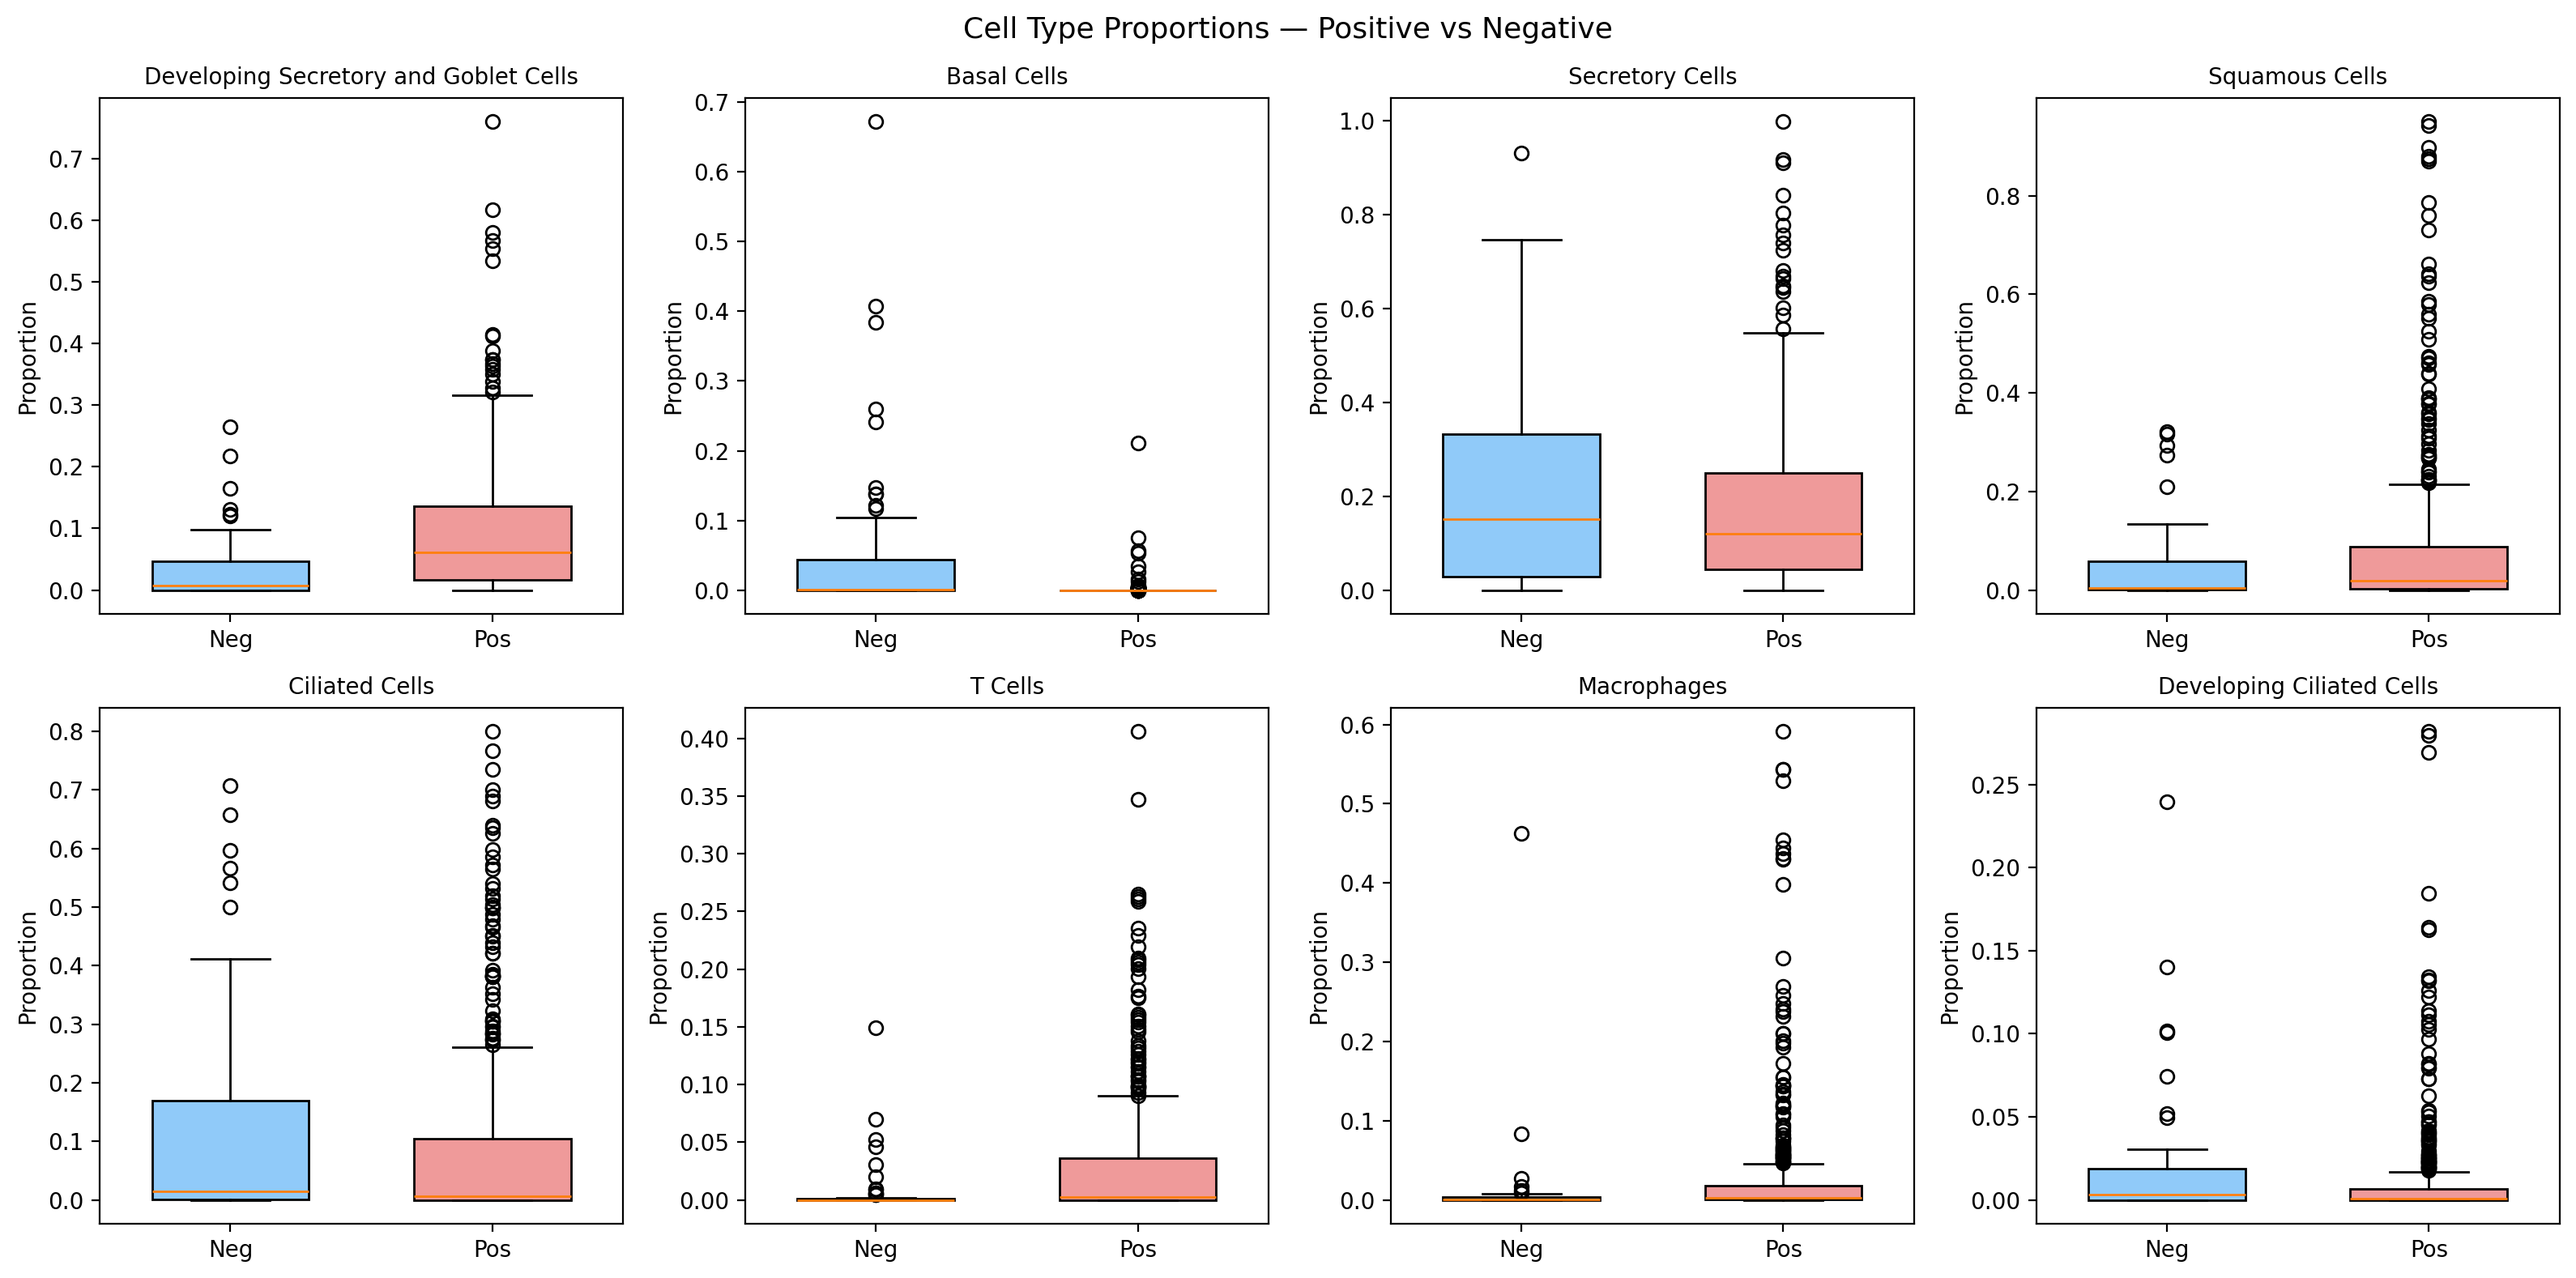
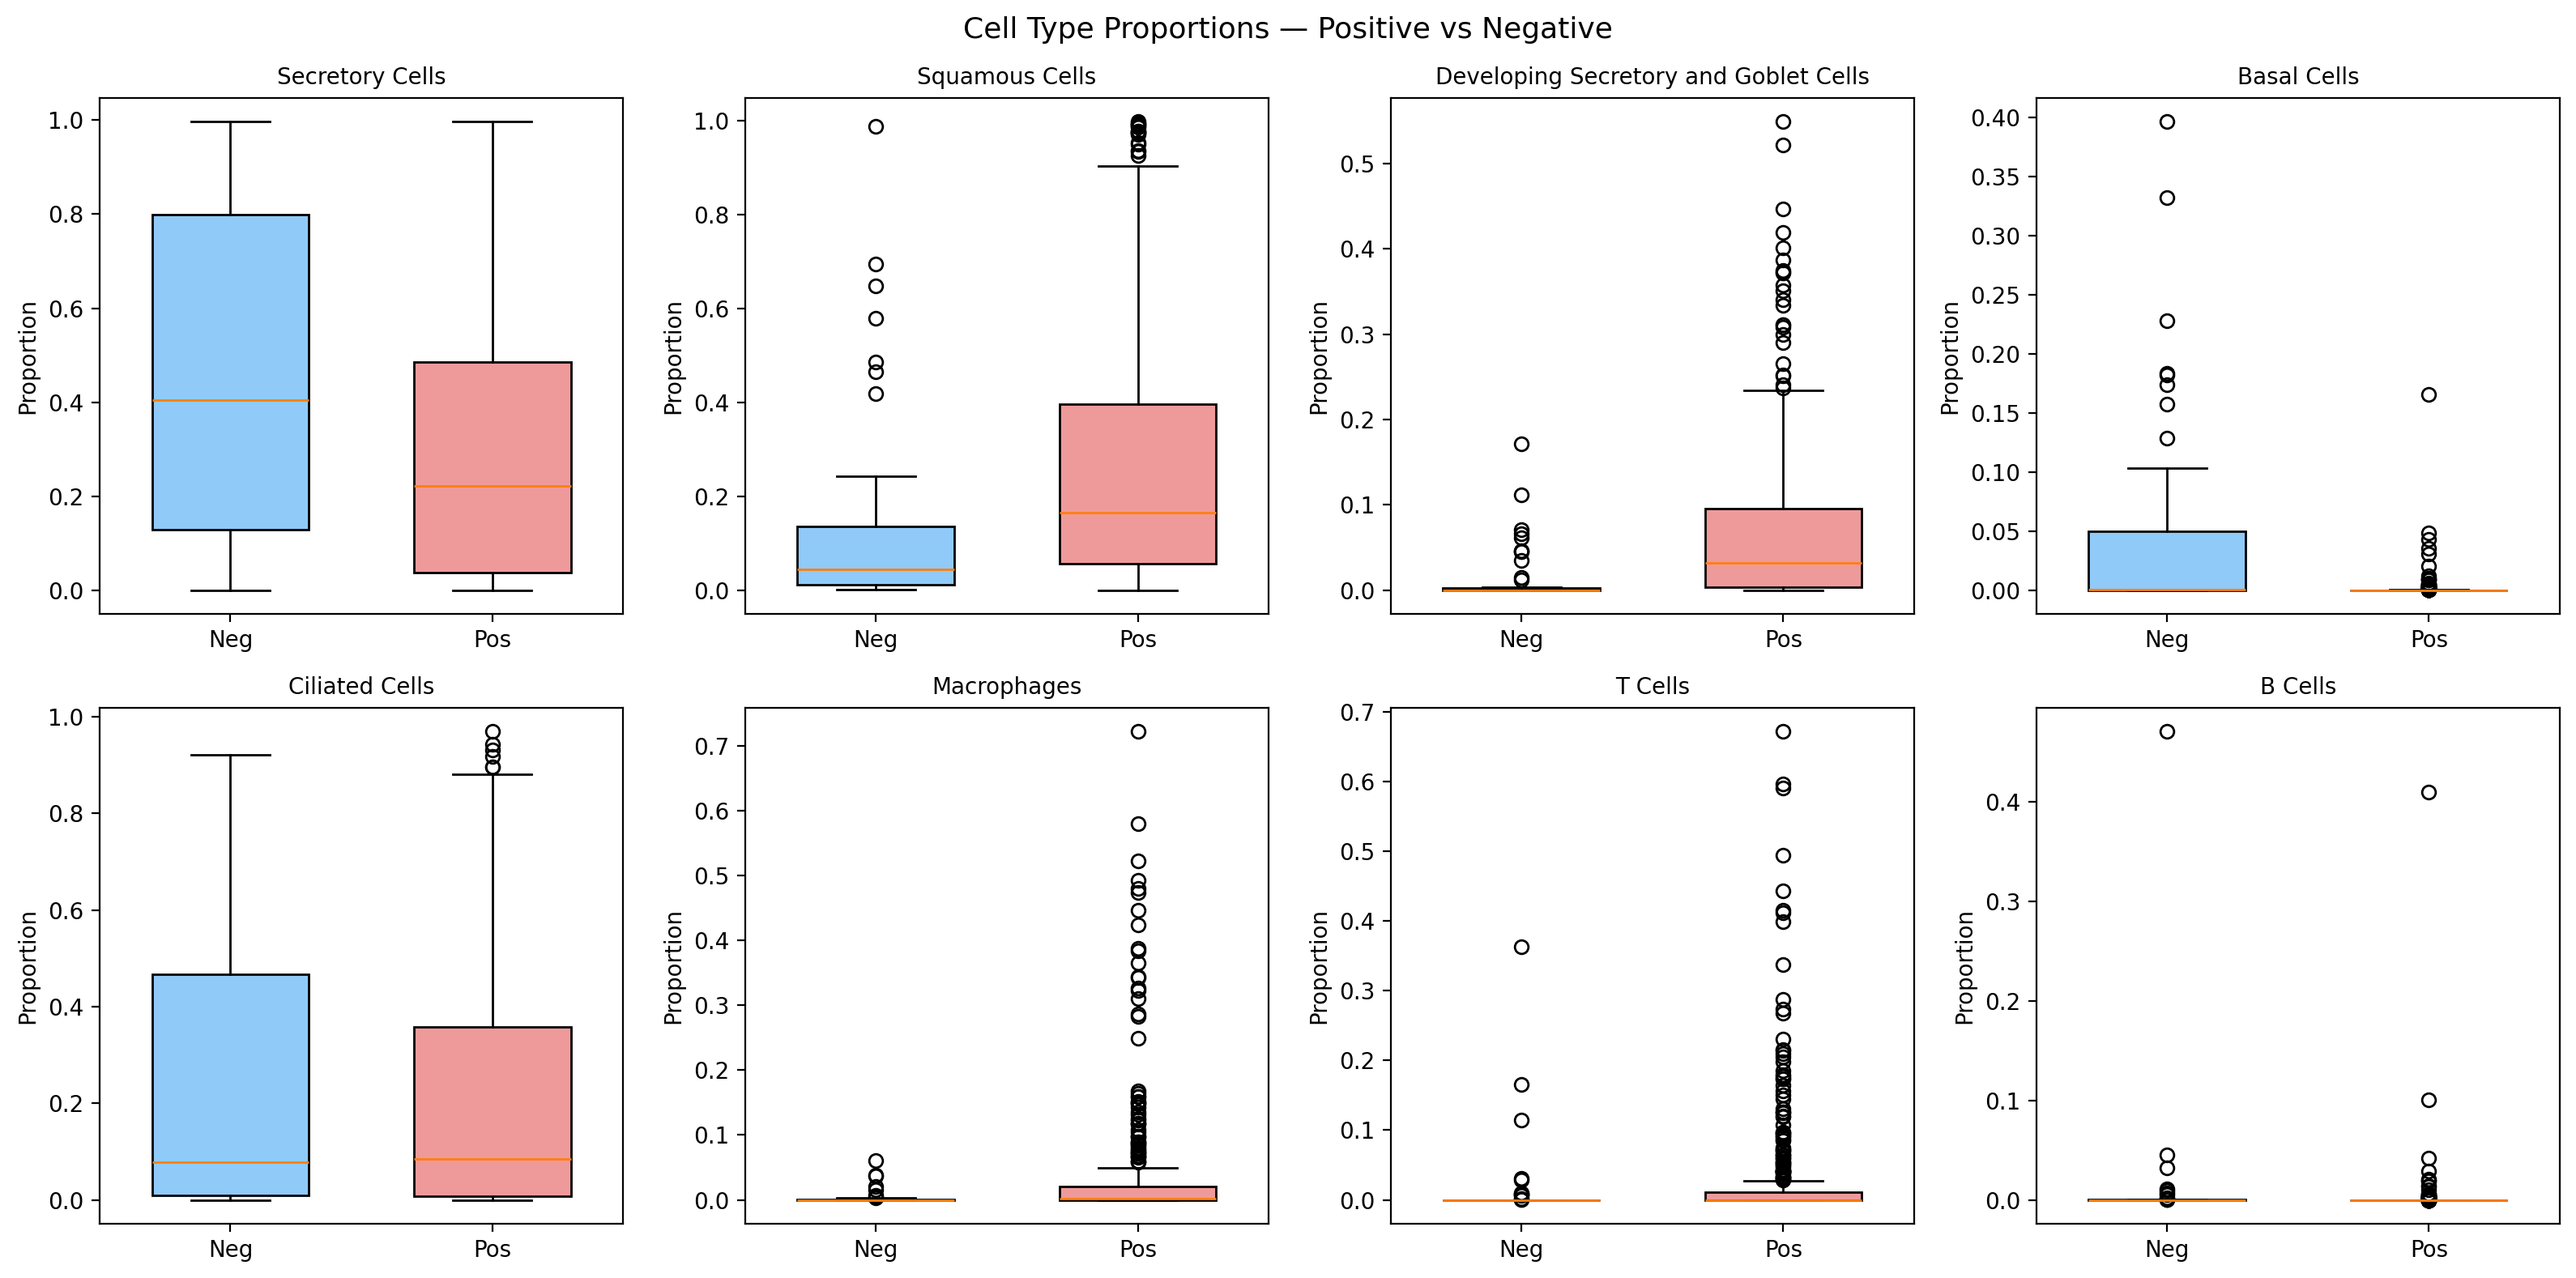
Fix 5 bugs, add statistical testing, improve training
Bugs fixed:
- Clamp softmax output before log (prevents -inf in KL loss)
- Weight Dirichlet alpha by reference prevalence (rare types
  were overrepresented in training data, causing bias)
- Allow 0 cells per type in pseudo-bulk (was forcing min=1)
- Fix deprecated matplotlib boxplot labels parameter
- Add early stopping (patience=20)

Improvements:
- RMSE metric alongside Pearson r on validation
- Mann-Whitney U test on COVID+ vs negative for each cell type
- Statistical significance column in results CSV
- Validation r improved: 0.973 → 0.988 (RMSE = 0.016)

Results now show 7 significantly changed cell types (p<0.05):
squamous metaplasia, goblet hyperplasia, macrophage infiltration,
T cell infiltration, secretory cell loss, basal cell depletion.

diff --git a/deconvolve.py b/deconvolve.py
@@ -21,7 +21,7 @@ from torch.utils.data import DataLoader, TensorDataset
 import matplotlib.pyplot as plt
 from pathlib import Path
 from sklearn.model_selection import train_test_split
-from scipy.stats import pearsonr
+from scipy.stats import pearsonr, mannwhitneyu
 
 RANDOM_STATE = 42
 N_PSEUDO_BULK = 5000
@@ -158,13 +158,22 @@ def generate_pseudo_bulk(adata_ref, hvg, n_samples=N_PSEUDO_BULK):
     bulk_profiles = np.zeros((n_samples, len(hvg)))
     true_fractions = np.zeros((n_samples, n_types))
 
+    # Dirichlet alpha weighted by reference prevalence — generates
+    # realistic proportions where common types (ciliated) dominate and
+    # rare types (DCs) appear infrequently, matching real tissue composition.
+    ref_prevalence = np.array([len(type_indices[ct]) for ct in cell_types], dtype=float)
+    ref_prevalence = ref_prevalence / ref_prevalence.sum()
+    alpha = ref_prevalence * n_types  # scale so mean matches reference
+
     for i in range(n_samples):
-        props = np.random.dirichlet(np.ones(n_types))
+        props = np.random.dirichlet(alpha)
         true_fractions[i] = props
 
         mixed = np.zeros(len(hvg))
         for j, ct in enumerate(cell_types):
-            n_cells = max(1, int(props[j] * CELLS_PER_SAMPLE))
+            n_cells = int(props[j] * CELLS_PER_SAMPLE)
+            if n_cells == 0:
+                continue
             n_cells = min(n_cells, len(type_indices[ct]))
             sampled = np.random.choice(type_indices[ct], size=n_cells, replace=True)
             mixed += expr.loc[sampled].sum(axis=0).values
@@ -228,6 +237,8 @@ def train_model(X_train, y_train, X_val, y_val, n_types):
 
     best_val_loss = float("inf")
     best_state = None
+    patience_counter = 0
+    PATIENCE = 20
     train_losses, val_losses = [], []
 
     print(f"\nTraining ({EPOCHS} epochs, {n_genes} genes, {n_types} cell types)...")
@@ -236,7 +247,7 @@ def train_model(X_train, y_train, X_val, y_val, n_types):
         epoch_loss = 0
         for xb, yb in train_dl:
             pred = model(xb)
-            loss = criterion(pred.log(), yb)
+            loss = criterion(torch.clamp(pred, min=1e-8).log(), yb)
             optimizer.zero_grad()
             loss.backward()
             optimizer.step()
@@ -248,16 +259,23 @@ def train_model(X_train, y_train, X_val, y_val, n_types):
         model.eval()
         with torch.no_grad():
             val_pred = model(X_v)
-            val_loss = criterion(val_pred.log(), y_v).item()
+            val_loss = criterion(torch.clamp(val_pred, min=1e-8).log(), y_v).item()
         val_losses.append(val_loss)
         scheduler.step(val_loss)
 
         if val_loss < best_val_loss:
             best_val_loss = val_loss
             best_state = {k: v.clone() for k, v in model.state_dict().items()}
+            patience_counter = 0
+        else:
+            patience_counter += 1
 
         if (epoch + 1) % 20 == 0:
             print(f"  Epoch {epoch+1}/{EPOCHS} — train: {train_loss:.4f}, val: {val_loss:.4f}")
+
+        if patience_counter >= PATIENCE:
+            print(f"  Early stopping at epoch {epoch+1} (no improvement for {PATIENCE} epochs)")
+            break
 
     model.load_state_dict(best_state)
     print(f"  Best validation loss: {best_val_loss:.4f}")
@@ -314,8 +332,9 @@ def validate_model(model, X_val, y_val, cell_types):
         correlations[ct] = {"r": r, "p": p}
 
     overall_r, _ = pearsonr(y_val.flatten(), pred.flatten())
+    rmse = np.sqrt(np.mean((y_val - pred) ** 2))
 
-    print(f"\n  Validation Pearson r = {overall_r:.3f}")
+    print(f"\n  Validation Pearson r = {overall_r:.3f}, RMSE = {rmse:.4f}")
     for ct, vals in sorted(correlations.items(), key=lambda x: -x[1]["r"]):
         print(f"    {ct}: r = {vals['r']:.3f}")
 
@@ -387,7 +406,7 @@ def analyse_results(proportions, cell_types, conditions, sample_ids):
     for i, ct in enumerate(top_changed):
         neg_vals = prop_df.loc[prop_df["condition"] == "negative", ct]
         pos_vals = prop_df.loc[prop_df["condition"] == "positive", ct]
-        bp = axes[i].boxplot([neg_vals, pos_vals], labels=["Neg", "Pos"],
+        bp = axes[i].boxplot([neg_vals, pos_vals], tick_labels=["Neg", "Pos"],
                             patch_artist=True, widths=0.6)
         bp["boxes"][0].set_facecolor("#90CAF9")
         bp["boxes"][1].set_facecolor("#EF9A9A")
@@ -402,10 +421,20 @@ def analyse_results(proportions, cell_types, conditions, sample_ids):
     fig.savefig(FIG_DIR / "boxplots_by_condition.png", dpi=200, bbox_inches="tight")
     plt.close(fig)
 
-    # Summary
+    # Summary with statistical tests
     summary = prop_df.groupby("condition")[cell_types].mean().T
     if "positive" in summary.columns and "negative" in summary.columns:
         summary["diff"] = summary["positive"] - summary["negative"]
+
+        # Mann-Whitney U test for each cell type
+        pvals = {}
+        for ct in cell_types:
+            neg = prop_df.loc[prop_df["condition"] == "negative", ct]
+            pos = prop_df.loc[prop_df["condition"] == "positive", ct]
+            _, p = mannwhitneyu(neg, pos, alternative="two-sided")
+            pvals[ct] = p
+        summary["p_value"] = pd.Series(pvals)
+        summary["significant"] = summary["p_value"] < 0.05
         summary = summary.sort_values("diff", ascending=False)
     summary.to_csv(RESULTS_DIR / "mean_proportions_by_condition.csv")
 
